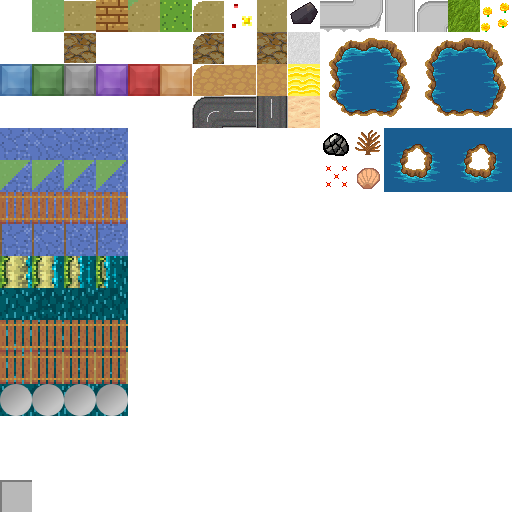
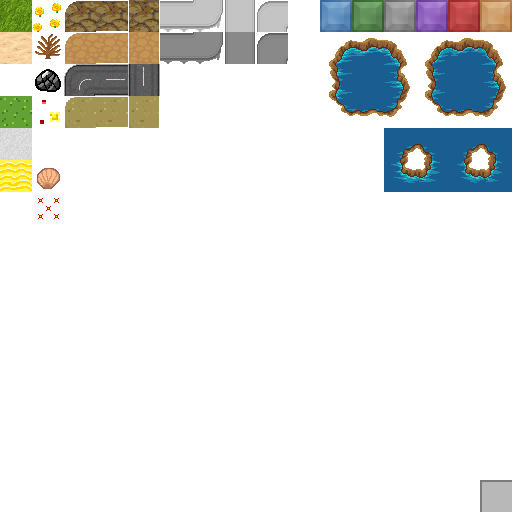
Map Skins Update
+Updated tiles spritesheet, removed all the old textures and organized
it for the skins.

diff --git a/core/src/com/abstractlabs/oefen/Assets.java b/core/src/com/abstractlabs/oefen/Assets.java
@@ -17,31 +17,27 @@ public class Assets {
 	public static TextureRegion playClick;
 
 	public static Texture tiles;
-	public static TextureRegion voidTile;
-	public static TextureRegion grassTile;
-	public static TextureRegion dirtTile;
-	public static TextureRegion dirt2Tile;
-	public static TextureRegion dirtCornerTile;
-	public static Animation waterTile;
-	public static Animation waterCornerTile;
-	public static Animation bridgeTile;
-	public static Animation bridge2Tile;
-	public static Animation waterSideTile;
+	public static TextureRegion blank;
 	public static TextureRegion hoverTile;
+	public static TextureRegion grass;
+	public static TextureRegion flower;
+	public static TextureRegion dirtHorizontal;
+	public static TextureRegion dirtVertical;
+	public static TextureRegion dirtCorner;
 	public static TextureRegion gemBlue;
 	public static TextureRegion gemGreen;
 	public static TextureRegion gemGray;
 	public static TextureRegion gemPurple;
 	public static TextureRegion gemRed;
 	public static TextureRegion gemOrange;
-	public static TextureRegion grassFlowerTile;
-	public static Animation waterStone;
-	public static TextureRegion stone;
-	public static TextureRegion blank;
 	public static TextureRegion bridgeStoneHorizontal;
 	public static TextureRegion bridgeStoneVertical;
 	public static TextureRegion bridgeStoneCornerBottomRight;
 	public static TextureRegion bridgeStoneCornerTopLeft;
+	public static TextureRegion bridgeStone2Horizontal;
+	public static TextureRegion bridgeStone2Vertical;
+	public static TextureRegion bridgeStone2CornerBottomRight;
+	public static TextureRegion bridgeStone2CornerTopLeft;
 	public static Animation water;
 	public static Animation waterLeft;
 	public static Animation waterRight;
@@ -55,13 +51,13 @@ public class Assets {
 	public static Animation waterTopRightCorner;
 	public static Animation waterBottomLeftCorner;
 	public static Animation waterBottomRightCorner;
-	public static TextureRegion snowTile;
-	public static TextureRegion sandTile;
+	public static TextureRegion snow;
+	public static TextureRegion sand;
 	public static TextureRegion deadTree;
 	public static TextureRegion pathHorizontal;
 	public static TextureRegion pathVertical;
 	public static TextureRegion pathCorner;
-	public static TextureRegion sand2Tile;
+	public static TextureRegion sand2;
 	public static TextureRegion roadHorizontal;
 	public static TextureRegion roadVertical;
 	public static TextureRegion roadCorner;
@@ -261,57 +257,31 @@ public class Assets {
 
 		//Tiles
 		tiles = loadTexture("gfx/tiles.png");
-		voidTile = new TextureRegion(tiles, 0*32, 0*32, 32, 32);
-		grassTile = new TextureRegion(tiles, 14*32, 0*32, 32, 32);
-		dirtTile = new TextureRegion(tiles, 2*32, 1*32, 32, 32);
-		dirt2Tile = new TextureRegion(tiles, 8*32, 1*32, 32, 32);
-		dirtCornerTile = new TextureRegion(tiles, 6*32, 1*32, 32, 32);
-		waterTile = new Animation(0.5f, 
-				new TextureRegion(tiles, 0*32, 9*32, 32, 32), 
-				new TextureRegion(tiles, 1*32, 9*32, 32, 32), 
-				new TextureRegion(tiles, 2*32, 9*32, 32, 32), 
-				new TextureRegion(tiles, 3*32, 9*32, 32, 32));
-		waterCornerTile = new Animation(0.5f, 
-				new TextureRegion(tiles, 0*32, 5*32, 32, 32), 
-				new TextureRegion(tiles, 1*32, 5*32, 32, 32), 
-				new TextureRegion(tiles, 2*32, 5*32, 32, 32), 
-				new TextureRegion(tiles, 3*32, 5*32, 32, 32));
-		bridgeTile = new Animation(0.5f, 
-				new TextureRegion(tiles, 0*32, 10*32, 32, 32), 
-				new TextureRegion(tiles, 1*32, 10*32, 32, 32), 
-				new TextureRegion(tiles, 2*32, 10*32, 32, 32), 
-				new TextureRegion(tiles, 3*32, 10*32, 32, 32));
-		bridge2Tile = new Animation(0.5f, 
-				new TextureRegion(tiles, 0*32, 11*32, 32, 32), 
-				new TextureRegion(tiles, 1*32, 11*32, 32, 32), 
-				new TextureRegion(tiles, 2*32, 11*32, 32, 32), 
-				new TextureRegion(tiles, 3*32, 11*32, 32, 32));
-		waterSideTile = new Animation(5.0f, 
-//				new TextureRegion(tiles, 0*32, 8*32, 32, 32), 
-//				new TextureRegion(tiles, 1*32, 8*32, 32, 32), 
-				new TextureRegion(tiles, 3*32, 8*32, 32, 32)); 
-//				new TextureRegion(tiles, 3*32, 8*32, 32, 32)); 
-//				new TextureRegion(tiles, 2*32, 8*32, 32, 32));
-//				new TextureRegion(tiles, 1*32, 8*32, 32, 32));
-		hoverTile = new TextureRegion(tiles, 0*32, 15*32, 32, 32);
-		gemBlue   = new TextureRegion(tiles, 0*32, 2*32, 32, 32);
-		gemGreen  = new TextureRegion(tiles, 1*32, 2*32, 32, 32);
-		gemGray   = new TextureRegion(tiles, 2*32, 2*32, 32, 32);
-		gemPurple = new TextureRegion(tiles, 3*32, 2*32, 32, 32);
-		gemRed    = new TextureRegion(tiles, 4*32, 2*32, 32, 32);
-		gemOrange = new TextureRegion(tiles, 5*32, 2*32, 32, 32);
-		grassFlowerTile = new TextureRegion(tiles, 15*32, 0*32, 32, 32);
-		waterStone = new Animation(0.5f, 
-				new TextureRegion(tiles, 0*32, 12*32, 32, 32), 
-				new TextureRegion(tiles, 1*32, 12*32, 32, 32), 
-				new TextureRegion(tiles, 2*32, 12*32, 32, 32), 
-				new TextureRegion(tiles, 3*32, 12*32, 32, 32));
-		stone = new TextureRegion(tiles, 9*32, 0*32, 32, 32);
-		blank = new TextureRegion(tiles, 0*32, 0*32, 32, 32);
-		bridgeStoneHorizontal = new TextureRegion(tiles, 10*32, 0*32, 32, 32);
-		bridgeStoneVertical = new TextureRegion(tiles, 12*32, 0*32, 32, 32);
-		bridgeStoneCornerBottomRight = new TextureRegion(tiles, 11*32, 0*32, 32, 32);
-		bridgeStoneCornerTopLeft = new TextureRegion(tiles, 13*32, 0*32, 32, 32);
+		blank = new TextureRegion(tiles, 0*32, 15*32, 32, 32);
+		grass = new TextureRegion(tiles, 0*32, 0*32, 32, 32);
+		flower = new TextureRegion(tiles, 1*32, 0*32, 32, 32);
+		dirtCorner = new TextureRegion(tiles, 2*32, 0*32, 32, 32);
+		dirtHorizontal = new TextureRegion(tiles, 3*32, 0*32, 32, 32);
+		dirtVertical = new TextureRegion(tiles, 4*32, 0*32, 32, 32);
+		
+		hoverTile = new TextureRegion(tiles, 15*32, 15*32, 32, 32);
+		gemBlue   = new TextureRegion(tiles, 10*32, 0*32, 32, 32);
+		gemGreen  = new TextureRegion(tiles, 11*32, 0*32, 32, 32);
+		gemGray   = new TextureRegion(tiles, 12*32, 0*32, 32, 32);
+		gemPurple = new TextureRegion(tiles, 13*32, 0*32, 32, 32);
+		gemRed    = new TextureRegion(tiles, 14*32, 0*32, 32, 32);
+		gemOrange = new TextureRegion(tiles, 15*32, 0*32, 32, 32);
+		
+		bridgeStoneHorizontal = new TextureRegion(tiles, 5*32, 0*32, 32, 32);
+		bridgeStoneCornerBottomRight = new TextureRegion(tiles, 6*32, 0*32, 32, 32);
+		bridgeStoneVertical = new TextureRegion(tiles, 7*32, 0*32, 32, 32);
+		bridgeStoneCornerTopLeft = new TextureRegion(tiles, 8*32, 0*32, 32, 32);
+		
+		bridgeStone2Horizontal = new TextureRegion(tiles, 5*32, 1*32, 32, 32);
+		bridgeStone2CornerBottomRight = new TextureRegion(tiles, 6*32, 1*32, 32, 32);
+		bridgeStone2Vertical = new TextureRegion(tiles, 7*32, 1*32, 32, 32);
+		bridgeStone2CornerTopLeft = new TextureRegion(tiles, 8*32, 1*32, 32, 32);
+		
 		water = new Animation(0.5f, 
 				new TextureRegion(tiles, 11*32, 2*32, 32, 32), 
 				new TextureRegion(tiles, 14*32, 2*32, 32, 32));
@@ -351,21 +321,22 @@ public class Assets {
 		waterBottomRightCorner = new Animation(0.5f, 
 				new TextureRegion(tiles, 13*32, 5*32, 32, 32), 
 				new TextureRegion(tiles, 15*32, 5*32, 32, 32));
-		snowTile = new TextureRegion(tiles, 9*32, 1*32, 32, 32);
-		sandTile = new TextureRegion(tiles, 9*32, 2*32, 32, 32);
-		sand2Tile = new TextureRegion(tiles, 9*32, 3*32, 32, 32);
-		deadTree = new TextureRegion(tiles, 11*32, 4*32, 32, 32);
-		pathCorner = new TextureRegion(tiles, 6*32, 2*32, 32, 32);
-		pathHorizontal = new TextureRegion(tiles, 7*32, 2*32, 32, 32);
-		pathVertical = new TextureRegion(tiles, 8*32, 2*32, 32, 32);
-		roadCorner = new TextureRegion(tiles, 6*32, 3*32, 32, 32);
-		roadHorizontal = new TextureRegion(tiles, 7*32, 3*32, 32, 32);
-		roadVertical = new TextureRegion(tiles, 8*32, 3*32, 32, 32);
-		grass16 = new TextureRegion(tiles, 5*32, 0*32, 32, 32);
-		flower16 = new TextureRegion(tiles, 7*32, 0*32, 32, 32);
-		path16Corner = new TextureRegion(tiles, 6*32, 0*32, 32, 32);
-		path16Horizontal = new TextureRegion(tiles, 2*32, 0*32, 32, 32);
-		path16Vertical = new TextureRegion(tiles, 8*32, 0*32, 32, 32);
+		
+		snow = new TextureRegion(tiles, 0*32, 4*32, 32, 32);
+		sand = new TextureRegion(tiles, 0*32, 1*32, 32, 32);
+		sand2 = new TextureRegion(tiles, 0*32, 5*32, 32, 32);
+		deadTree = new TextureRegion(tiles, 1*32, 1*32, 32, 32);
+		pathCorner = new TextureRegion(tiles, 2*32, 1*32, 32, 32);
+		pathHorizontal = new TextureRegion(tiles, 3*32, 1*32, 32, 32);
+		pathVertical = new TextureRegion(tiles, 4*32, 1*32, 32, 32);
+		roadCorner = new TextureRegion(tiles, 2*32, 2*32, 32, 32);
+		roadHorizontal = new TextureRegion(tiles, 3*32, 2*32, 32, 32);
+		roadVertical = new TextureRegion(tiles, 4*32, 2*32, 32, 32);
+		grass16 = new TextureRegion(tiles, 0*32, 5*32, 32, 32);
+		flower16 = new TextureRegion(tiles, 1*32, 5*32, 32, 32);
+		path16Corner = new TextureRegion(tiles, 2*32, 3*32, 32, 32);
+		path16Horizontal = new TextureRegion(tiles, 3*32, 3*32, 32, 32);
+		path16Vertical = new TextureRegion(tiles, 4*32, 3*32, 32, 32);
 		
 		//Towers
 		towers = loadTexture("gfx/towers.png");

diff --git a/core/src/com/abstractlabs/oefen/map/Map.java b/core/src/com/abstractlabs/oefen/map/Map.java
@@ -78,25 +78,21 @@ public class Map {
 	    		TextureRegion texture = null;
 	    		boolean xflip = false, yflip = false;
 	    		if(mapTiles[i][k] == Tile.GRASS) { texture = k<split?blueSkin.getGrass():redSkin.getGrass(); xflip = false; yflip = false; } 
-	    		else if(mapTiles[i][k] == Tile.PATH_HORIZONTAL) { texture = Assets.dirtTile; xflip = false; yflip = false; } 
-	    		else if(mapTiles[i][k] == Tile.PATH_BOTTOM_RIGHT) { texture = Assets.dirtCornerTile; xflip = true; yflip = true; } 
-	    		else if(mapTiles[i][k] == Tile.PATH_TOP_LEFT) { texture = Assets.dirtCornerTile; xflip = false; yflip = false; } 
-	    		else if(mapTiles[i][k] == Tile.PATH_TOP_RIGHT) { texture = Assets.dirtCornerTile; xflip = true; yflip = false; } 
-	    		else if(mapTiles[i][k] == Tile.PATH_BOTTOM_LEFT) { texture = Assets.dirtCornerTile; xflip = false; yflip = true; }
-	    		else if(mapTiles[i][k] == Tile.BRIDGE) { texture = Assets.bridgeTile.getKeyFrame(stateTime, Animation.LOOPING); xflip = false; yflip = false; } 
+	    		else if(mapTiles[i][k] == Tile.PATH_HORIZONTAL) { texture = Assets.dirtHorizontal; xflip = false; yflip = false; } 
+	    		else if(mapTiles[i][k] == Tile.PATH_BOTTOM_RIGHT) { texture = Assets.dirtCorner; xflip = true; yflip = true; } 
+	    		else if(mapTiles[i][k] == Tile.PATH_TOP_LEFT) { texture = Assets.dirtCorner; xflip = false; yflip = false; } 
+	    		else if(mapTiles[i][k] == Tile.PATH_TOP_RIGHT) { texture = Assets.dirtCorner; xflip = true; yflip = false; } 
+	    		else if(mapTiles[i][k] == Tile.PATH_BOTTOM_LEFT) { texture = Assets.dirtCorner; xflip = false; yflip = true; }
 	    		else if(mapTiles[i][k] == Tile.WATER) { texture = Assets.water.getKeyFrame(stateTime, Animation.LOOPING); xflip = false; yflip = false; } 
 	    		else if(mapTiles[i][k] == Tile.WATER_LEFT) { texture = Assets.waterLeft.getKeyFrame(stateTime, Animation.LOOPING); xflip = false; yflip = false; } 
-	    		else if(mapTiles[i][k] == Tile.WATER_RIGHT) { texture = Assets.waterLeft.getKeyFrame(stateTime, Animation.LOOPING); xflip = true; yflip = false; } 
-	    		else if(mapTiles[i][k] == Tile.BRIDGE2) { texture = Assets.bridge2Tile.getKeyFrame(stateTime, Animation.LOOPING); xflip = false; yflip = false; }
+	    		else if(mapTiles[i][k] == Tile.WATER_RIGHT) { texture = Assets.waterLeft.getKeyFrame(stateTime, Animation.LOOPING); xflip = true; yflip = false; }
 	    		else if(mapTiles[i][k] == Tile.GEM_BLUE) { texture = Assets.gemBlue; xflip = false; yflip = false; }
 	    		else if(mapTiles[i][k] == Tile.GEM_GREEN) { texture = Assets.gemGreen; xflip = false; yflip = false; }
 	    		else if(mapTiles[i][k] == Tile.GEM_GRAY) { texture = Assets.gemGray; xflip = false; yflip = false; }
 	    		else if(mapTiles[i][k] == Tile.GEM_PURPLE) { texture = Assets.gemPurple; xflip = false; yflip = false; }
 	    		else if(mapTiles[i][k] == Tile.GEM_RED) { texture = Assets.gemRed; xflip = false; yflip = false; }
 	    		else if(mapTiles[i][k] == Tile.GEM_ORANGE) { texture = Assets.gemOrange; xflip = false; yflip = false; }
-	    		else if(mapTiles[i][k] == Tile.GRASS_FLOWER) { texture = Assets.grassFlowerTile; xflip = false; yflip = false; }
-	    		else if(mapTiles[i][k] == Tile.PATH_VERTICAL) { texture = Assets.dirt2Tile; xflip = false; yflip = false; }
-	    		else if(mapTiles[i][k] == Tile.STONE) { texture = Assets.waterStone.getKeyFrame(stateTime, Animation.LOOPING); xflip = false; yflip = false; }
+	    		else if(mapTiles[i][k] == Tile.PATH_VERTICAL) { texture = Assets.dirtVertical; xflip = false; yflip = false; }
 	    		else if(mapTiles[i][k] == Tile.WATER_BOTTOM) { texture = Assets.waterBottom.getKeyFrame(stateTime, Animation.LOOPING); xflip = false; yflip = false; }
 	    		else if(mapTiles[i][k] == Tile.WATER_TOPLEFT_CORNER) { texture = Assets.waterTopLeftCorner.getKeyFrame(stateTime, Animation.LOOPING); xflip = false; yflip = false; }
 	    		else if(mapTiles[i][k] == Tile.WATER_TOPRIGHT_CORNER) { texture = Assets.waterTopRightCorner.getKeyFrame(stateTime, Animation.LOOPING); xflip = false; yflip = false; }
@@ -138,14 +134,12 @@ public class Map {
 	    		TextureRegion texture = null;
 	    		boolean xflip = false, yflip = false;
 	    		if(mapOverlay2[i][k] == Tile.NULL) { texture = Assets.blank; xflip = false; yflip = false; } 
-	    		else if(mapOverlay2[i][k] == Tile.STONE) { texture = Assets.stone; xflip = false; yflip = false; } 
 	    		else if(mapOverlay2[i][k] == Tile.BRIDGE_STONE_HORIZONTAL) { texture = Assets.bridgeStoneHorizontal; xflip = false; yflip = false; } 
 	    		else if(mapOverlay2[i][k] == Tile.BRIDGE_STONE_VERTICAL) { texture = Assets.bridgeStoneVertical; xflip = false; yflip = false; } 
 	    		else if(mapOverlay2[i][k] == Tile.BRIDGE_STONE_BOTTOM_RIGHT) { texture = Assets.bridgeStoneCornerBottomRight; xflip = false; yflip = false; } 
 	    		else if(mapOverlay2[i][k] == Tile.BRIDGE_STONE_TOP_LEFT) { texture = Assets.bridgeStoneCornerTopLeft; xflip = false; yflip = false; } 
 	    		else if(mapOverlay2[i][k] == Tile.BRIDGE_STONE_TOP_RIGHT) { texture = Assets.bridgeStoneCornerTopLeft; xflip = true; yflip = false; } 
-	    		else if(mapOverlay2[i][k] == Tile.BRIDGE_STONE_BOTTOM_LEFT) { texture = Assets.bridgeStoneCornerBottomRight; xflip = true; yflip = false; } 
-	    		else if(mapOverlay2[i][k] == Tile.GRASS_FLOWER) { texture = Assets.grassFlowerTile; xflip = false; yflip = false; }
+	    		else if(mapOverlay2[i][k] == Tile.BRIDGE_STONE_BOTTOM_LEFT) { texture = Assets.bridgeStoneCornerBottomRight; xflip = true; yflip = false; }
 	    		
 	    		texture.flip(xflip, yflip);
 	    		batch.draw(texture, x+k*32, y-(i*32), 32, 32);
@@ -423,6 +417,11 @@ public class Map {
 			}
 		}
 
-        return new Map(mapPath, mapTiles, mapOverlay1, mapOverlay2, mapTowers, blueStart, redStart, Skin.city, Skin.x16, waterEnd);
+		System.out.println(Skins.grassAll);
+
+		Skin skinBlue = Skin.getRandomSkin();
+		Skin skinRed = Skin.getRandomSkin();
+		
+        return new Map(mapPath, mapTiles, mapOverlay1, mapOverlay2, mapTowers, blueStart, redStart, skinBlue, skinRed, waterEnd);
 	}
 }

diff --git a/core/src/com/abstractlabs/oefen/map/Skins.java b/core/src/com/abstractlabs/oefen/map/Skins.java
@@ -1,0 +1,79 @@
+package com.abstractlabs.oefen.map;
+
+import java.util.ArrayList;
+import java.util.List;
+
+import com.abstractlabs.oefen.Assets;
+import com.badlogic.gdx.graphics.g2d.TextureRegion;
+
+public class Skins {
+	private TextureRegion texture;
+
+	private static String GRASS = "Grass";
+	private static String FLOWER = "Flower";
+	private static String PATH_HORIZONTAL = "Path Horizontal";
+	private static String PATH_VERTICAL = "Path Vertical";
+	private static String PATH_CORNER = "Path Corner";
+	
+	public static List<Skins> grassAll = new ArrayList<Skins>();
+	public static List<Skins> flowerAll = new ArrayList<Skins>();
+	public static List<Skins> pathHorizontalAll = new ArrayList<Skins>();
+	public static List<Skins> pathVerticalAll = new ArrayList<Skins>();
+	public static List<Skins> pathCornerAll = new ArrayList<Skins>();
+	public static List<Road> roadAll = new ArrayList<Road>();
+	
+	public Skins(String type, TextureRegion texture) {
+		this.texture = texture;
+		if(type==GRASS) {
+			grassAll.add(this);
+		} else if(type==FLOWER) {
+			flowerAll.add(this);
+		} else if(type==PATH_HORIZONTAL) {
+			pathHorizontalAll.add(this);
+		} else if(type==PATH_VERTICAL) {
+			pathVerticalAll.add(this);
+		} else if(type==PATH_CORNER) {
+			pathCornerAll.add(this);
+		}
+	}
+	
+	public TextureRegion get() {
+		return this.texture;
+	}
+
+	//GRASS
+	public static Skins grass = new Skins(GRASS, Assets.grass);
+	public static Skins sand = new Skins(GRASS, Assets.sand);
+	public static Skins grass16 = new Skins(GRASS, Assets.grass16);
+	public static Skins snow = new Skins(GRASS, Assets.snow);
+	public static Skins sand2 = new Skins(GRASS, Assets.sand2);
+	
+	//FLOWER
+	public static Skins flower = new Skins(FLOWER, Assets.flower);
+	public static Skins deadTree = new Skins(FLOWER, Assets.deadTree);
+	public static Skins flower16 = new Skins(FLOWER, Assets.flower16);
+	
+	//PATH_HORIZONTAL
+	public static Skins dirtHorizontal = new Skins(PATH_HORIZONTAL, Assets.dirtHorizontal);
+	public static Skins pathHorizontal = new Skins(PATH_HORIZONTAL, Assets.pathHorizontal);
+	public static Skins roadHorizontal = new Skins(PATH_HORIZONTAL, Assets.roadHorizontal);
+	public static Skins path16Horizontal = new Skins(PATH_HORIZONTAL, Assets.path16Horizontal);
+	
+	//PATH_VERTICAL
+	public static Skins dirtVertical = new Skins(PATH_VERTICAL, Assets.dirtVertical);
+	public static Skins pathVertical = new Skins(PATH_VERTICAL, Assets.pathVertical);
+	public static Skins roadVertical = new Skins(PATH_VERTICAL, Assets.roadVertical);
+	public static Skins path16Vertical = new Skins(PATH_VERTICAL, Assets.path16Vertical);
+	
+	//PATH_CORNER
+	public static Skins dirtCorner = new Skins(PATH_CORNER, Assets.dirtCorner);
+	public static Skins pathCorner = new Skins(PATH_CORNER, Assets.pathCorner);
+	public static Skins roadCorner = new Skins(PATH_CORNER, Assets.roadCorner);
+	public static Skins path16Corner = new Skins(PATH_CORNER, Assets.path16Corner);
+	
+	//PATH
+	public static Road dirt = new Road(Assets.dirtHorizontal, Assets.dirtVertical, Assets.dirtCorner);
+	public static Road path = new Road(Assets.pathHorizontal, Assets.pathVertical, Assets.pathCorner);
+	public static Road road = new Road(Assets.roadHorizontal, Assets.roadVertical, Assets.roadCorner);
+	public static Road path16 = new Road(Assets.path16Horizontal, Assets.path16Vertical, Assets.path16Corner);
+}

diff --git a/core/src/com/abstractlabs/oefen/map/Skin.java b/core/src/com/abstractlabs/oefen/map/Skin.java
@@ -1,5 +1,7 @@
 package com.abstractlabs.oefen.map;
 
+import java.util.Random;
+
 import com.abstractlabs.oefen.Assets;
 import com.badlogic.gdx.graphics.g2d.TextureRegion;
 
@@ -56,8 +58,19 @@ public class Skin {
 	
 	///////////////////////////////////////////////////////// STATIC CLASS START //////////////////////////////////////////////////////////////////
 
-	public static Skin classic = new Skin(Assets.grassTile, Assets.grassFlowerTile, Assets.dirtTile, Assets.dirt2Tile, Assets.dirtCornerTile);
-	public static Skin desert = new Skin(Assets.sand2Tile, Assets.deadTree, Assets.pathHorizontal, Assets.pathVertical, Assets.pathCorner);
-	public static Skin city = new Skin(Assets.grassTile, Assets.grassFlowerTile, Assets.roadHorizontal, Assets.roadVertical, Assets.roadCorner);
+	public static Skin classic = new Skin(Assets.grass, Assets.flower, Assets.dirtHorizontal, Assets.dirtVertical, Assets.dirtCorner);
+	public static Skin desert = new Skin(Assets.sand, Assets.deadTree, Assets.pathHorizontal, Assets.pathVertical, Assets.pathCorner);
+	public static Skin city = new Skin(Assets.grass, Assets.flower, Assets.roadHorizontal, Assets.roadVertical, Assets.roadCorner);
 	public static Skin x16 = new Skin(Assets.grass16, Assets.flower16, Assets.path16Horizontal, Assets.path16Vertical, Assets.path16Corner);
+
+	public static Skin getRandomSkin() {
+		Random rand = new Random();
+		Road road = Skins.roadAll.get(rand.nextInt(Skins.roadAll.size()));
+		Skin skin = new Skin(Skins.grassAll.get(rand.nextInt(Skins.grassAll.size())).get(),
+			 			     Skins.flowerAll.get(rand.nextInt(Skins.flowerAll.size())).get(),
+			 			     road.getHorizontal(),
+			 			     road.getVertical(),
+			 			     road.getCorner());
+		return skin;
+	}
 }

diff --git a/core/src/com/abstractlabs/oefen/map/Road.java b/core/src/com/abstractlabs/oefen/map/Road.java
@@ -1,0 +1,28 @@
+package com.abstractlabs.oefen.map;
+
+import com.badlogic.gdx.graphics.g2d.TextureRegion;
+
+public class Road {
+	private TextureRegion horizontal;
+	private TextureRegion vertical;
+	private TextureRegion corner;
+	
+	public Road(TextureRegion horizontal, TextureRegion vertical, TextureRegion corner) {
+		this.horizontal = horizontal;
+		this.vertical = vertical;
+		this.corner = corner;
+		Skins.roadAll.add(this);
+	}
+	
+	public TextureRegion getHorizontal() {
+		return this.horizontal;
+	}
+	
+	public TextureRegion getVertical() {
+		return this.vertical;
+	}
+	
+	public TextureRegion getCorner() {
+		return this.corner;
+	}
+}
